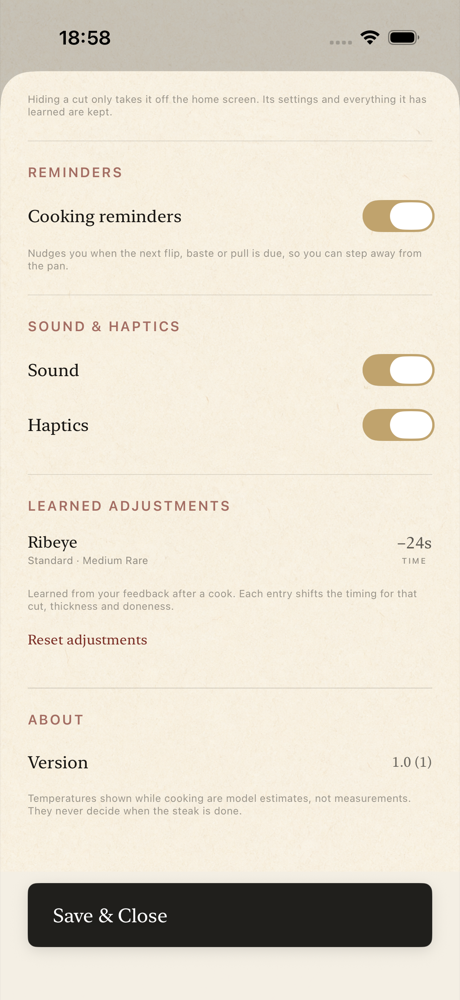
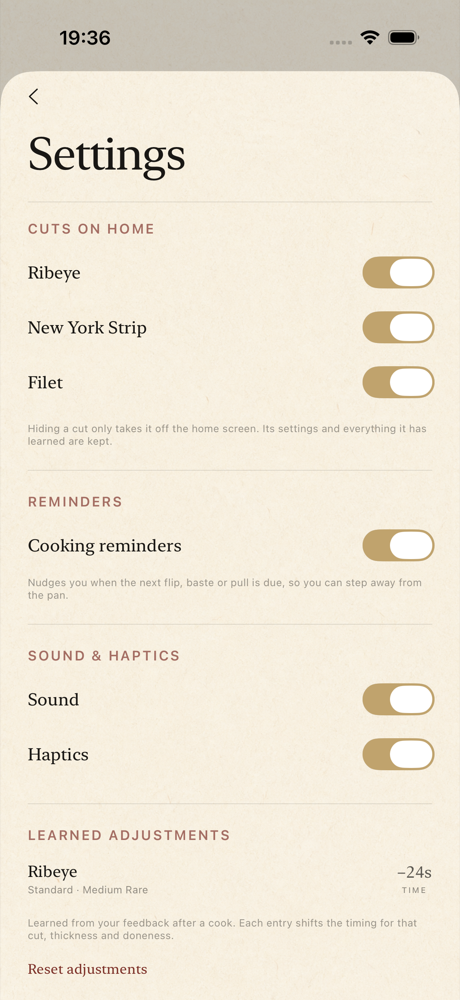
Apply app settings as they are changed, and drop the Save button
The settings sheet no longer has a Save & Close button. Every switch is applied
the moment it moves, like a system settings screen, and the sheet is dismissed
with the back chevron.

That required dropping the local draft: with no Save to press, a control that
only edited a draft would silently lose the change on close. The controls now
bind straight through to the live preferences, and a change lands in the one
place it can - the store the feedback and notification services already read.

Removing the bar also removed the reason the reset row could be tap-blocked:
XCUI reported a row under the sticky bar as hittable, and tapping it pressed the
bar and dismissed the sheet. The tests no longer carry that guard.

Only the settings UI tests were run, as asked: 6/6 passed. No full-suite run.

diff --git a/SteakCopilotUITests/SteakCopilotUITests.swift b/SteakCopilotUITests/SteakCopilotUITests.swift
@@ -579,7 +579,7 @@ final class SteakCopilotUITests: XCTestCase {
         let app = launchApp()
 
         app.buttons["home.topSettings"].tap()
-        XCTAssertTrue(app.buttons["appSettings.save"].waitForExistence(timeout: 3))
+        XCTAssertTrue(app.buttons["appSettings.close"].waitForExistence(timeout: 3))
         XCTAssertFalse(
             app.buttons["setup.doneness.mediumRare"].exists,
             "the gear must not open this cook's doneness and thickness"
@@ -590,17 +590,17 @@ final class SteakCopilotUITests: XCTestCase {
         XCTAssertTrue(app.buttons["home.settings"].waitForExistence(timeout: 3))
         app.buttons["home.settings"].tap()
         XCTAssertTrue(app.buttons["setup.doneness.mediumRare"].waitForExistence(timeout: 3))
-        XCTAssertFalse(app.buttons["appSettings.save"].exists)
+        XCTAssertFalse(app.buttons["appSettings.close"].exists)
     }
 
     func testHidingACutTakesItOffTheHomeScreen() {
         let app = launchApp()
 
         app.buttons["home.topSettings"].tap()
-        XCTAssertTrue(app.buttons["appSettings.save"].waitForExistence(timeout: 3))
+        XCTAssertTrue(app.buttons["appSettings.close"].waitForExistence(timeout: 3))
         layoutElement("appSettings.cut.strip", in: app).tap()
         attachScreenshot(named: "app-settings-cuts", app: app)
-        app.buttons["appSettings.save"].tap()
+        app.buttons["appSettings.close"].tap()
 
         XCTAssertTrue(app.buttons["setup.primary"].waitForExistence(timeout: 3))
         XCTAssertFalse(
@@ -616,9 +616,9 @@ final class SteakCopilotUITests: XCTestCase {
 
         // And it comes back.
         app.buttons["home.topSettings"].tap()
-        XCTAssertTrue(app.buttons["appSettings.save"].waitForExistence(timeout: 3))
+        XCTAssertTrue(app.buttons["appSettings.close"].waitForExistence(timeout: 3))
         layoutElement("appSettings.cut.strip", in: app).tap()
-        app.buttons["appSettings.save"].tap()
+        app.buttons["appSettings.close"].tap()
         XCTAssertTrue(app.buttons["setup.cut.strip"].waitForExistence(timeout: 3))
     }
 
@@ -629,7 +629,7 @@ final class SteakCopilotUITests: XCTestCase {
         let titleBefore = layoutFrame("home.title", in: app)
 
         app.buttons["home.topSettings"].tap()
-        XCTAssertTrue(app.buttons["appSettings.save"].waitForExistence(timeout: 3))
+        XCTAssertTrue(app.buttons["appSettings.close"].waitForExistence(timeout: 3))
         layoutElement("appSettings.cut.strip", in: app).tap()
         layoutElement("appSettings.cut.tenderloin", in: app).tap()
 
@@ -641,7 +641,7 @@ final class SteakCopilotUITests: XCTestCase {
         )
         attachScreenshot(named: "app-settings-last-cut", app: app)
 
-        app.buttons["appSettings.save"].tap()
+        app.buttons["appSettings.close"].tap()
         XCTAssertTrue(app.buttons["setup.primary"].waitForExistence(timeout: 3))
         XCTAssertTrue(app.buttons["setup.cut.ribeye"].exists)
         XCTAssertFalse(
@@ -668,7 +668,7 @@ final class SteakCopilotUITests: XCTestCase {
         let app = launchApp()
 
         app.buttons["home.topSettings"].tap()
-        XCTAssertTrue(app.buttons["appSettings.save"].waitForExistence(timeout: 3))
+        XCTAssertTrue(app.buttons["appSettings.close"].waitForExistence(timeout: 3))
 
         for section in ["CUTS ON HOME", "REMINDERS", "SOUND & HAPTICS",
                         "LEARNED ADJUSTMENTS", "ABOUT"] {
@@ -701,9 +701,9 @@ final class SteakCopilotUITests: XCTestCase {
         let app = launchApp()
 
         app.buttons["home.topSettings"].tap()
-        XCTAssertTrue(app.buttons["appSettings.save"].waitForExistence(timeout: 3))
+        XCTAssertTrue(app.buttons["appSettings.close"].waitForExistence(timeout: 3))
         layoutElement("appSettings.sound", in: app).tap()
-        app.buttons["appSettings.save"].tap()
+        app.buttons["appSettings.close"].tap()
         XCTAssertTrue(app.buttons["setup.primary"].waitForExistence(timeout: 3))
 
         // Relaunch without the reset argument, so the stored value is read back.
@@ -713,7 +713,7 @@ final class SteakCopilotUITests: XCTestCase {
         XCTAssertTrue(app.buttons["setup.primary"].waitForExistence(timeout: 5))
 
         app.buttons["home.topSettings"].tap()
-        XCTAssertTrue(app.buttons["appSettings.save"].waitForExistence(timeout: 3))
+        XCTAssertTrue(app.buttons["appSettings.close"].waitForExistence(timeout: 3))
         XCTAssertEqual(
             layoutElement("appSettings.sound", in: app).value as? String,
             "0",
@@ -749,7 +749,7 @@ final class SteakCopilotUITests: XCTestCase {
         XCTAssertTrue(app.buttons["setup.primary"].waitForExistence(timeout: 5))
 
         app.buttons["home.topSettings"].tap()
-        XCTAssertTrue(app.buttons["appSettings.save"].waitForExistence(timeout: 3))
+        XCTAssertTrue(app.buttons["appSettings.close"].waitForExistence(timeout: 3))
         XCTAssertTrue(
             scrollToVisibleButton("appSettings.resetAdjustments", in: app),
             "an overshot cook should have taught the app something"
@@ -762,30 +762,18 @@ final class SteakCopilotUITests: XCTestCase {
         // Save bar is still reported as hittable, and tapping it would press the
         // bar instead — which dismisses the sheet.
         let reset = app.buttons["appSettings.resetAdjustments"]
-        let saveBar = app.buttons["appSettings.save"]
-        if reset.frame.maxY >= saveBar.frame.minY {
-            // Scrolling stops as soon as XCUI considers the row hittable, which
-            // can still be underneath the sticky Save bar. One more swipe brings
-            // it clear; tapping it there would press the bar and dismiss the
-            // sheet instead.
-            app.swipeUp()
-        }
-        XCTAssertLessThan(
-            reset.frame.maxY,
-            saveBar.frame.minY,
-            "the reset row must scroll clear of the Save bar before it is tapped"
-        )
+        XCTAssertTrue(reset.isHittable, "the reset action must be reachable")
         attachScreenshot(named: "app-settings-adjustments", app: app)
         reset.tap()
         attachScreenshot(named: "app-settings-reset-tapped", app: app)
         XCTAssertTrue(app.buttons["Reset"].waitForExistence(timeout: 3))
         app.buttons["Reset"].tap()
-        app.buttons["appSettings.save"].tap()
+        app.buttons["appSettings.close"].tap()
 
         // Reopen: the list is empty again.
         XCTAssertTrue(app.buttons["home.topSettings"].waitForExistence(timeout: 3))
         app.buttons["home.topSettings"].tap()
-        XCTAssertTrue(app.buttons["appSettings.save"].waitForExistence(timeout: 3))
+        XCTAssertTrue(app.buttons["appSettings.close"].waitForExistence(timeout: 3))
         XCTAssertTrue(
             scrollToVisible(
                 layoutElement("appSettings.adjustments.empty", in: app),

diff --git a/SteakCopilot/Features/Settings/SettingsView.swift b/SteakCopilot/Features/Settings/SettingsView.swift
@@ -9,22 +9,24 @@ import SwiftUI
 struct SettingsView: View {
     @Environment(\.dismiss) private var dismiss
     @Environment(AppTheme.self) private var theme
-    @State private var draft: AppPreferences
     @State private var showsResetConfirmation = false
 
+    let preferences: AppPreferences
     let learnedAdjustments: [LearnedAdjustment]
-    let onSave: (AppPreferences) -> Void
+    /// Called as soon as a switch moves. There is no Save button, so a control
+    /// that only edited a local draft would silently lose the change on close.
+    let onChange: (AppPreferences) -> Void
     let onResetLearnedAdjustments: () -> Void
 
     init(
         preferences: AppPreferences,
         learnedAdjustments: [LearnedAdjustment],
-        onSave: @escaping (AppPreferences) -> Void,
+        onChange: @escaping (AppPreferences) -> Void,
         onResetLearnedAdjustments: @escaping () -> Void
     ) {
-        _draft = State(initialValue: preferences)
+        self.preferences = preferences
         self.learnedAdjustments = learnedAdjustments
-        self.onSave = onSave
+        self.onChange = onChange
         self.onResetLearnedAdjustments = onResetLearnedAdjustments
     }
 
@@ -48,10 +50,9 @@ struct SettingsView: View {
                     aboutSection
                 }
                 .padding(.horizontal, 24)
-                .padding(.bottom, 24)
+                .padding(.bottom, 32)
             }
             .scrollIndicators(.hidden)
-            .safeAreaInset(edge: .bottom) { saveBar }
         }
         .preferredColorScheme(.light)
         .alert(
@@ -85,18 +86,6 @@ struct SettingsView: View {
             .editorialDisplayStyle(size: 40, color: theme.ink)
             .frame(maxWidth: .infinity, alignment: .leading)
             .padding(.top, 4)
-    }
-
-    private var saveBar: some View {
-        PrimaryActionButton(title: String(localized: "Save & Close")) {
-            onSave(draft)
-            dismiss()
-        }
-        .accessibilityIdentifier("appSettings.save")
-        .padding(.horizontal, 24)
-        .padding(.top, 10)
-        .padding(.bottom, 12)
-        .background(theme.porcelain.opacity(0.96))
     }
 
     private var divider: some View {
@@ -137,13 +126,8 @@ struct SettingsView: View {
     }
 
     private func cutRow(_ cut: SteakCut) -> some View {
-        let locked = !draft.canHide(cut)
-        return Toggle(
-            isOn: Binding(
-                get: { draft.isVisible(cut) },
-                set: { draft.setCut(cut, visible: $0) }
-            )
-        ) {
+        let locked = !preferences.canHide(cut)
+        return Toggle(isOn: visibilityBinding(cut)) {
             Text(cut.title)
                 .font(.system(size: 15, weight: .regular, design: .serif))
                 .foregroundStyle(theme.ink)
@@ -158,7 +142,38 @@ struct SettingsView: View {
     }
 
     private var isAnyCutLocked: Bool {
-        SteakCut.allCases.contains { !draft.canHide($0) }
+        SteakCut.allCases.contains { !preferences.canHide($0) }
+    }
+
+    /// Settings apply the moment they are changed, so the sheet never holds a
+    /// draft that a close would discard.
+    private func apply(_ updated: AppPreferences) {
+        guard updated != preferences else { return }
+        onChange(updated)
+    }
+
+    private func visibilityBinding(_ cut: SteakCut) -> Binding<Bool> {
+        Binding(
+            get: { preferences.isVisible(cut) },
+            set: { visible in
+                var updated = preferences
+                updated.setCut(cut, visible: visible)
+                apply(updated)
+            }
+        )
+    }
+
+    private func flagBinding(
+        _ keyPath: WritableKeyPath<AppPreferences, Bool>
+    ) -> Binding<Bool> {
+        Binding(
+            get: { preferences[keyPath: keyPath] },
+            set: { value in
+                var updated = preferences
+                updated[keyPath: keyPath] = value
+                apply(updated)
+            }
+        )
     }
 
     // MARK: - Reminders
@@ -169,7 +184,7 @@ struct SettingsView: View {
             toggleRow(
                 "Cooking reminders",
                 identifier: "appSettings.reminders",
-                isOn: $draft.isNotificationsEnabled
+                isOn: flagBinding(\.isNotificationsEnabled)
             )
             Text("Nudges you when the next flip, baste or pull is due, so you can step away from the pan.")
                 .font(.system(size: 9))
@@ -188,12 +203,12 @@ struct SettingsView: View {
             toggleRow(
                 "Sound",
                 identifier: "appSettings.sound",
-                isOn: $draft.isSoundEnabled
+                isOn: flagBinding(\.isSoundEnabled)
             )
             toggleRow(
                 "Haptics",
                 identifier: "appSettings.haptics",
-                isOn: $draft.isHapticsEnabled
+                isOn: flagBinding(\.isHapticsEnabled)
             )
         }
         .padding(.vertical, 16)

diff --git a/SteakCopilot/Features/Home/CookingHomeView.swift b/SteakCopilot/Features/Home/CookingHomeView.swift
@@ -71,7 +71,7 @@ struct CookingHomeView: View {
                 SettingsView(
                     preferences: appPreferences,
                     learnedAdjustments: controller.learnedAdjustments,
-                    onSave: saveAppPreferences,
+                    onChange: applyAppPreferences,
                     onResetLearnedAdjustments: { controller.resetLearnedAdjustments() }
                 )
                 .presentationDetents([.large])
@@ -423,7 +423,9 @@ struct CookingHomeView: View {
         controller.updateSetupPreferences(newValue)
     }
 
-    private func saveAppPreferences(_ newValue: AppPreferences) {
+    /// Applied the moment a switch moves: the settings sheet has no Save button,
+    /// so this is the only place a change can land.
+    private func applyAppPreferences(_ newValue: AppPreferences) {
         let wasEnabled = appPreferences.isNotificationsEnabled
         preferencesStore.update(newValue)
         applySelectionFallback()

diff --git a/docs/verification/2026-09-15-app-settings.md b/docs/verification/2026-09-15-app-settings.md
@@ -16,6 +16,8 @@ can express it.
 | Learned adjustments | see and reset what feedback taught | **invisible and unresettable** |
 | About | version, and what an estimated temperature is | nothing |
 
+Changes apply as they are made; there is no Save button.
+
 ## The real gap: learned adjustments
 
 Every feedback answer writes a `CookingCalibration` — a cooking-time adjustment
@@ -53,6 +55,17 @@ communicates, so it is still delivered with both off.
 Permission is requested when the reminder switch is turned **on**, not at launch,
 so the system prompt arrives at a moment the user just asked for it.
 
+## No Save button
+
+The sheet has no Save & Close: every switch is applied the moment it moves, the
+way a system settings screen behaves. That required dropping the local draft —
+with no Save to press, a control that only edited a draft would silently lose the
+change on close — so the controls now bind straight through to the live
+preferences and the sheet is dismissed with the back chevron.
+
+It also removed the sticky bottom bar, which is what let the reset row be
+tap-blocked in the first place, and the tests no longer have to guard against it.
+
 ## Storage
 
 `AppPreferences` changed from a bare set of hidden cuts to an object with the
@@ -74,11 +87,10 @@ Two problems surfaced while testing, both real:
    button, which made the walk fail on a button that had legitimately gone away.
    It now breaks on the finishing phase instead of asserting.
 
-A third, self-inflicted one is worth noting because it cost time: XCUI reports a
-row sitting **under the sticky Save bar** as hittable, and tapping it presses the
-bar — which dismisses the sheet. The test now asserts the row is clear of the bar
-before tapping rather than trusting `isHittable`. The bar itself is correctly
-pinned (measured at maxY 828 of 874); the trap is purely in XCUI's hittability.
+A third, self-inflicted one cost time and then disappeared with the Save button
+(below): while there was a sticky bar at the bottom, XCUI reported a row sitting
+under it as hittable, and tapping that row pressed the bar and dismissed the
+sheet.
 
 ## Automated results
 
